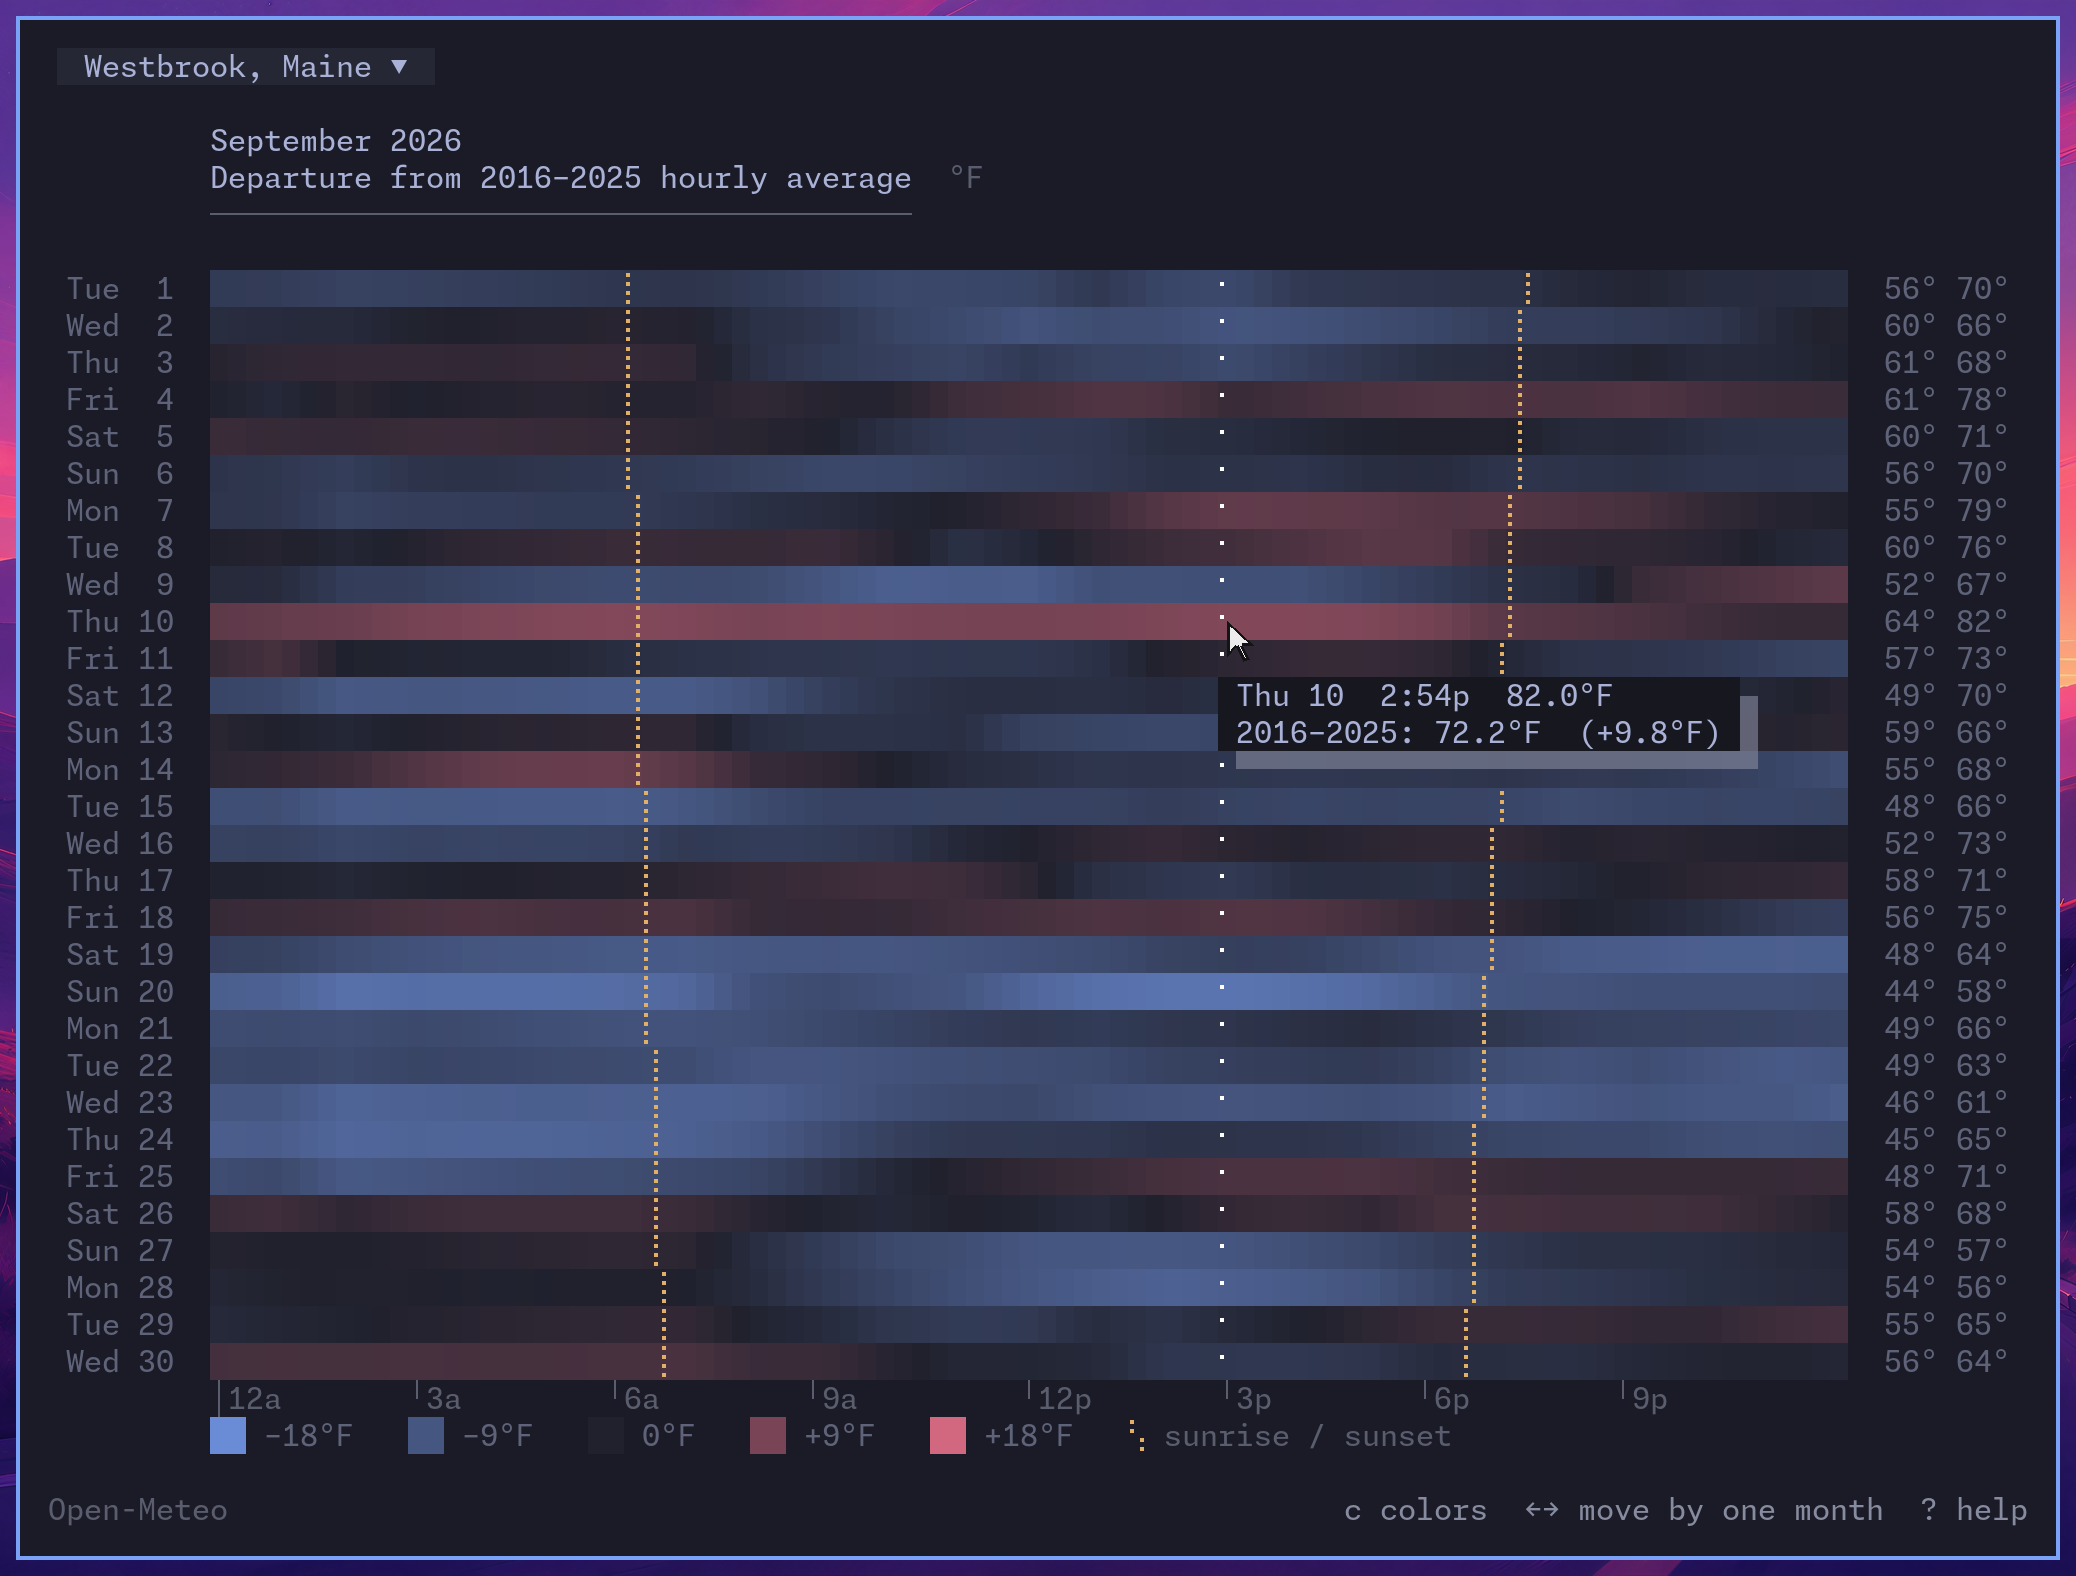
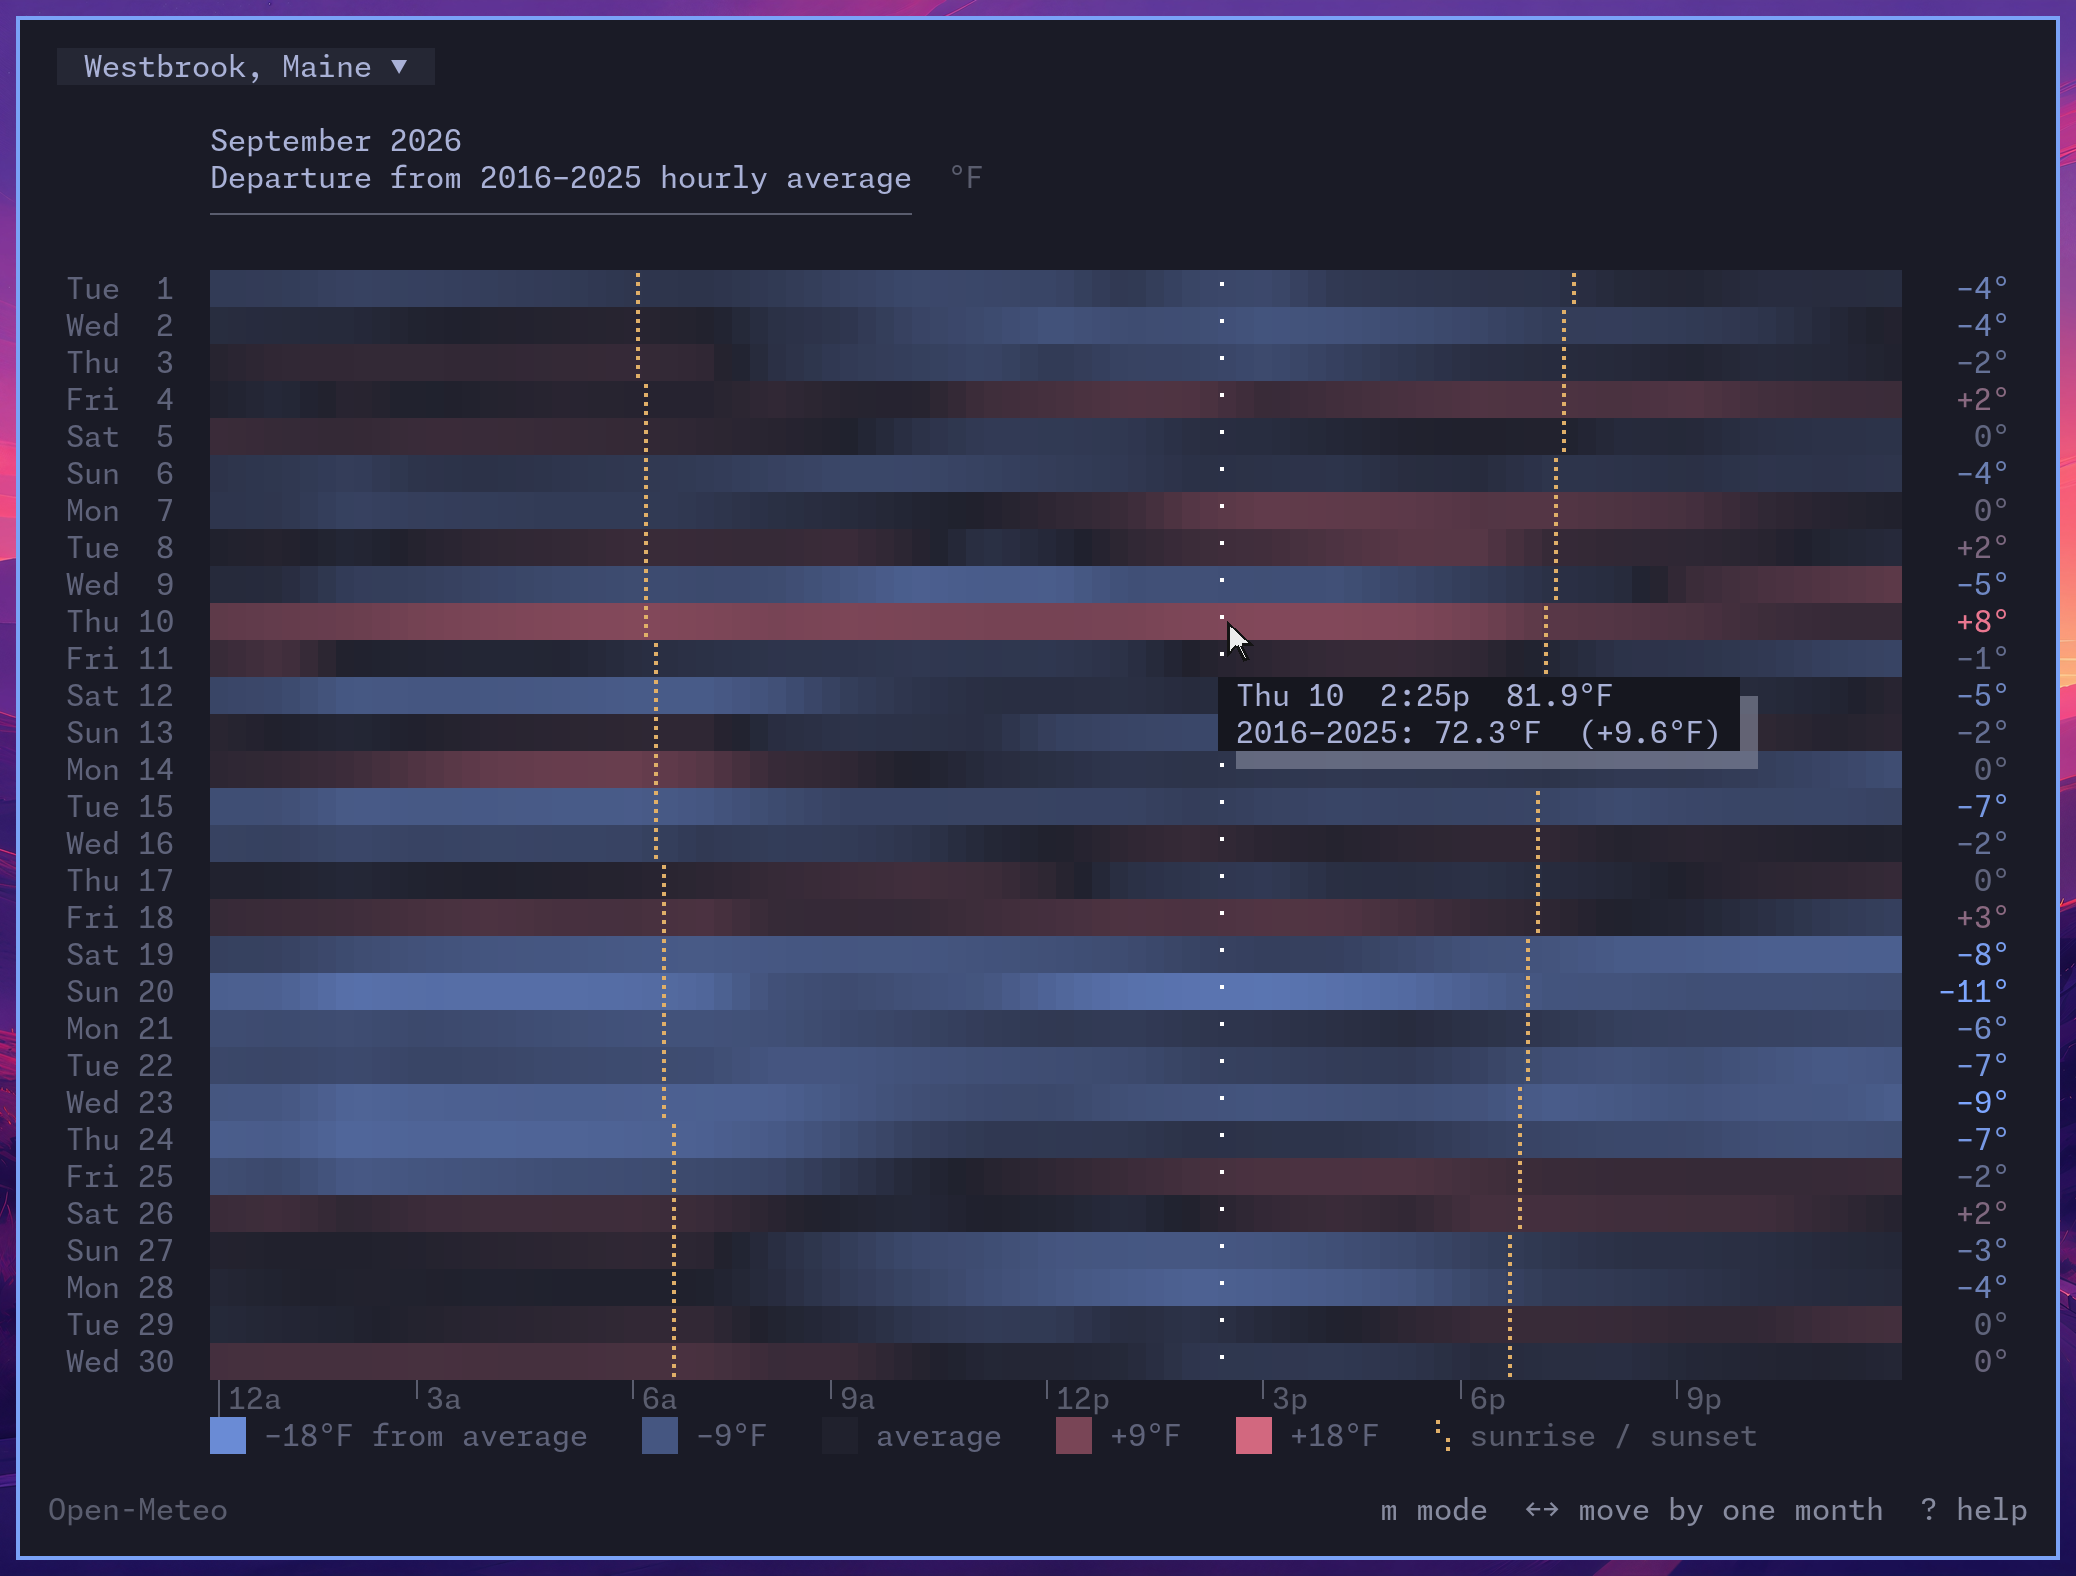
Weather: give each day's mean departure in the month's departure view
nkh in #141: "An additional information that could be interesting is
the average difference per day, maybe on the right of the day's
min-max temperature." In the departure view the column at the right
held the row's lowest and highest temperatures, in grey, beside a
field of departures. It now holds how far the row ran from its
average, the mean of its hours' departures, signed, in whole degrees,
and inked as the field is: blue below, red above, deeper up to 5°C
out, grey near the average. One figure fits from 60 columns, where
the two temperatures need 74.

The gallery's two month frames are recaptured; both still showed the
view before #141's colors, legend and m.

diff --git a/src/linecast/weather/month.py b/src/linecast/weather/month.py
@@ -187,6 +187,17 @@ def field_color(value, runtime, difference=False, span=None):
                           0.5 + 0.4 * place)
 
 
+def departure_figure(value, runtime):
+    """A day's mean departure from the average, signed, in whole degrees
+    and the field's own inks: blue below, red above, deeper as it grows,
+    and muted where the day kept to the average."""
+    shown = round(shown_temperature(value, runtime, difference=True))
+    text = ("+" if shown > 0 else "") + fmt_decimal(shown, 0, runtime) + "°"
+    hue = style.BLUE_RGB if value < 0 else style.RED_RGB
+    ink = theme.lerp_rgb(style.MUTED_RGB, hue, min(1, abs(value) / 5))
+    return f"{fg(*ink)}{text}"
+
+
 def clear_ink(ink, background):
     """Keep the fine Sun and hover marks visible on either theme."""
     if theme.contrast_ratio(ink, background) >= 2.5:
@@ -256,22 +267,27 @@ def render_month(series, first, runtime, lat, lng, label, *, difference=False,
     groups = [days[i:i + per_row] for i in range(0, len(days), per_row)]
     names = [day_label(now.date() if now.date() in group else group[0], runtime)
              for group in groups]
-    extremes = []
+    # The figures at each row's right: its lowest and highest hour, or in
+    # the departure view how far the row ran from the average, the mean
+    # of its hours' departures.
+    figures = []
     for group in groups:
-        values = [v for day in group for v in series.values(day)]
-        if not values:
-            extremes.append(("", ""))
+        if difference:
+            gaps = [value - normal for day in group for hour in range(24)
+                    if (value := series.at(day, hour)) is not None
+                    and (normal := series.at(day, hour, normal=True)) is not None]
+            figures.append((departure_figure(sum(gaps) / len(gaps), runtime) + RESET,)
+                           if gaps else ())
             continue
-        labels = []
-        for value in (min(values), max(values)):
-            shown = shown_temperature(value, runtime)
-            reading = (f"{fg(*style.MUTED_RGB)}{round(shown)}°" if difference
-                       else style._colored_temp(shown, runtime, suffix="°"))
-            labels.append(reading + RESET)
-        extremes.append(tuple(labels))
-    low_w, high_w = (max((visible_len(pair[i]) for pair in extremes if pair[i]), default=3)
-                     for i in range(2))
-    right_w = 2 + low_w + 1 + high_w if cols >= 74 else 0
+        values = [v for day in group for v in series.values(day)]
+        figures.append(tuple(style._colored_temp(shown_temperature(value, runtime), runtime,
+                                                 suffix="°") + RESET
+                             for value in (min(values), max(values))) if values else ())
+    columns = 1 if difference else 2
+    widths = [max((visible_len(row[i]) for row in figures if row), default=3)
+              for i in range(columns)]
+    # One figure takes half the room of two, and fits a narrower window.
+    right_w = 2 + sum(widths) + columns - 1 if cols >= (60 if difference else 74) else 0
     width = cols - gutter - right_w - 1
     span = month_span(series, first)
     field = Framebuffer(width, len(groups), bg_color=field_color(None, runtime))
@@ -333,9 +349,8 @@ def render_month(series, first, runtime, lat, lng, label, *, difference=False,
         left = " " + names[r]
         left += " " * (gutter - visible_len(left))
         line = f"{fg(*ink)}{left}{RESET}" + body
-        if right_w and extremes[r][0]:
-            low, high = extremes[r]
-            line += f"  {pad(low, low_w, '>')} {pad(high, high_w, '>')}"
+        if right_w and figures[r]:
+            line += "  " + " ".join(pad(figure, w, ">") for figure, w in zip(figures[r], widths))
         lines.append(line)
     midnight = datetime(first.year, first.month, first.day, tzinfo=series.tz)
     lines.append(" " * gutter + render_tide_ticks(midnight, 24, width, runtime))

diff --git a/tests/test_weather_month.py b/tests/test_weather_month.py
@@ -281,3 +281,50 @@ def test_new_strings_exist_in_every_language_with_matching_placeholders():
                     def fields(value):
                         return {f for _, f, _, _ in Formatter().parse(value) if f}
                     assert fields(translated) == fields(english), (code, key)
+
+
+def _departures(size, difference, celsius=True):
+    """October 2026 against a 2025 October of 10°C every hour: the 1st
+    3° warmer, the 2nd 3° colder, the 3rd on the average."""
+    archive = payload(datetime(2025, 10, 1, tzinfo=timezone.utc), [10] * (31 * 24))
+    current = payload(datetime(2026, 10, 1, tzinfo=timezone.utc),
+                      [13] * 24 + [7] * 24 + [10.2] * 24)
+    series = month.Temperatures.build([archive, current], (2016, 2025))
+    with patch.object(month, "get_terminal_size", return_value=size):
+        output = month.render_month(series, date(2026, 10, 1), runtime(celsius=celsius),
+                                    43, -70, "Portland", difference=difference,
+                                    now=datetime(2026, 10, 4, tzinfo=timezone.utc))
+    lines = re.sub(r"\x1b\[[0-9;]*m", "", output).splitlines()
+    return [next(line for line in lines if line.startswith(f" {name}"))
+            for name in ("Thu  1", "Fri  2", "Sat  3")]
+
+
+def test_the_departure_view_gives_each_day_its_mean_departure():
+    # nkh in #141: "the average difference per day", in place of the
+    # day's low and high, which read as departures
+    rows = _departures((100, 40), True)
+    assert [row.split()[-1] for row in rows] == ["+3°", "−3°", "0°"]
+    rows = _departures((100, 40), True, celsius=False)
+    assert [row.split()[-1] for row in rows] == ["+5°", "−5°", "0°"]
+    rows = _departures((100, 40), False)
+    assert [row.split()[-2:] for row in rows] == [["13°", "13°"], ["7°", "7°"], ["10°", "10°"]]
+
+
+def test_a_departure_is_inked_as_the_field_is():
+    from linecast.terminal import theme
+    from linecast.terminal.color import fg
+    from linecast.weather import style
+    rt = runtime(celsius=True)
+    with patch.object(color, "color_mode", return_value="truecolor"):
+        assert month.departure_figure(3, rt) == (
+            f"{fg(*theme.lerp_rgb(style.MUTED_RGB, style.RED_RGB, 0.6))}+3°")
+        assert month.departure_figure(-12, rt) == f"{fg(*style.BLUE_RGB)}−12°"
+        assert month.departure_figure(0.2, rt) == (
+            f"{fg(*theme.lerp_rgb(style.MUTED_RGB, style.RED_RGB, 0.04))}0°")
+
+
+@pytest.mark.parametrize("difference, narrowest", [(True, 60), (False, 74)])
+def test_one_figure_fits_a_narrower_window_than_two(difference, narrowest):
+    for cols in (narrowest - 1, narrowest):
+        rows = _departures((cols, 40), difference)
+        assert rows[0].rstrip().endswith("°") == (cols == narrowest), cols

diff --git a/docs/weather-month.md b/docs/weather-month.md
@@ -21,7 +21,7 @@ linecast weather --month --print
 | `l` or click the place | Change location |
 | `?` | Help |
 
-Days run down the chart and local clock hours across it. In a short terminal, each row holds two days, with the first in the upper half and the second in the lower half; hovering reads both. The numbers at the right are the lowest and highest hourly temperatures in the row. They remain temperatures when the chart shows departures. The braille lines mark sunrise and sunset, and the diamond marks now when viewing the current month. Legend temperatures are rounded to whole degrees; hover keeps tenths.
+Days run down the chart and local clock hours across it. In a short terminal, each row holds two days, with the first in the upper half and the second in the lower half; hovering reads both. The numbers at the right are the lowest and highest hourly temperatures in the row. When the chart shows departures, the number at the right is how far the row ran from its average, the mean of its hours' departures, in whole degrees and in the departure colors; it shows in windows from 60 columns wide, the two temperatures from 74. The braille lines mark sunrise and sunset, and the diamond marks now when viewing the current month. Legend temperatures are rounded to whole degrees; hover keeps tenths.
 
 Temperature colors are the ones the forecast uses. Within each month they run from faint at the coldest hour to strong at the warmest, so a month whose temperatures stay close together still shows its warm and cold spells.
 
@@ -29,6 +29,6 @@ Departure colors compare each hour with its average across the ten complete year
 
 The archive loads in the background on the first visit, with the usual loading indicator if it takes a moment. The ten baseline years and this year so far are cached per location, so browsing months or switching colors needs no further download. The baseline cache lasts a week; the current year refreshes after three hours or on a new local day. A failed request uses the cached data when available.
 
-Recent hours the archive has not reached are filled from Open-Meteo's forecast API, covering the previous seven days and today up to the now marker. Hover identifies these as “Recent model estimate.” They refresh hourly or on a new local day, give way to archive values when available, and never enter the ten-year average. Future hours stay blank and do not affect the legend or the row's temperature extremes. Other missing hours stay blank too. A spring clock-change gap stays empty; a repeated autumn hour is the average of both readings and is identified on hover.
+Recent hours the archive has not reached are filled from Open-Meteo's forecast API, covering the previous seven days and today up to the now marker. Hover identifies these as “Recent model estimate.” They refresh hourly or on a new local day, give way to archive values when available, and never enter the ten-year average. Future hours stay blank and do not affect the legend or the numbers at the right. Other missing hours stay blank too. A spring clock-change gap stays empty; a repeated autumn hour is the average of both readings and is identified on hover.
 
 The view needs at least 54 columns and 23 rows. More height gives each day its own row; more width leaves room for the temperature extremes and a single legend line. See [Where the numbers come from](sources.md#weather) for the archive.

diff --git a/CHANGELOG.md b/CHANGELOG.md
@@ -19,7 +19,7 @@ Changes you may notice:
 - Doctor: A saved setting that linecast can't read, such as `"units": "metrik"`, is marked "(ignored)" on the settings line. A service that is limiting requests or failing is no longer reported as ok.
 - Help: `--emoji` and `--month-temperature` are no longer listed, since `--icons emoji` and `--month` do the same. Both still work. Radar's `--help` explains `--layer`, `--layers`, and `--theme` more clearly, and `linecast calendar` names every language that brings its own calendar, Arabic and Hebrew among them.
 - Command line: A search that finds nothing, with `linecast location search`, `--search`, or `tides --search`, says so on stderr and exits with status 1, as `--location` and `--station` do. `--json` with `--oneline` is an error instead of printing the JSON alone, and a mistyped command such as `linecast wether` is offered the nearest one.
-- Weather: The month view's temperature colors are easier to tell apart, and its departure legend says the numbers are measured from the average. `m` now switches between the two, and `c` still works. Reported by [@nkh](https://github.com/nkh) in [#141](https://github.com/ashuttl/linecast/issues/141).
+- Weather: The month view's temperature colors are easier to tell apart, and its departure legend says the numbers are measured from the average. The departure view gives each day's average departure at the right, in blue or red, instead of its low and high. `m` now switches between temperatures and departures, and `c` still works. Reported by [@nkh](https://github.com/nkh) in [#141](https://github.com/ashuttl/linecast/issues/141).
 
 Fixes:
 
